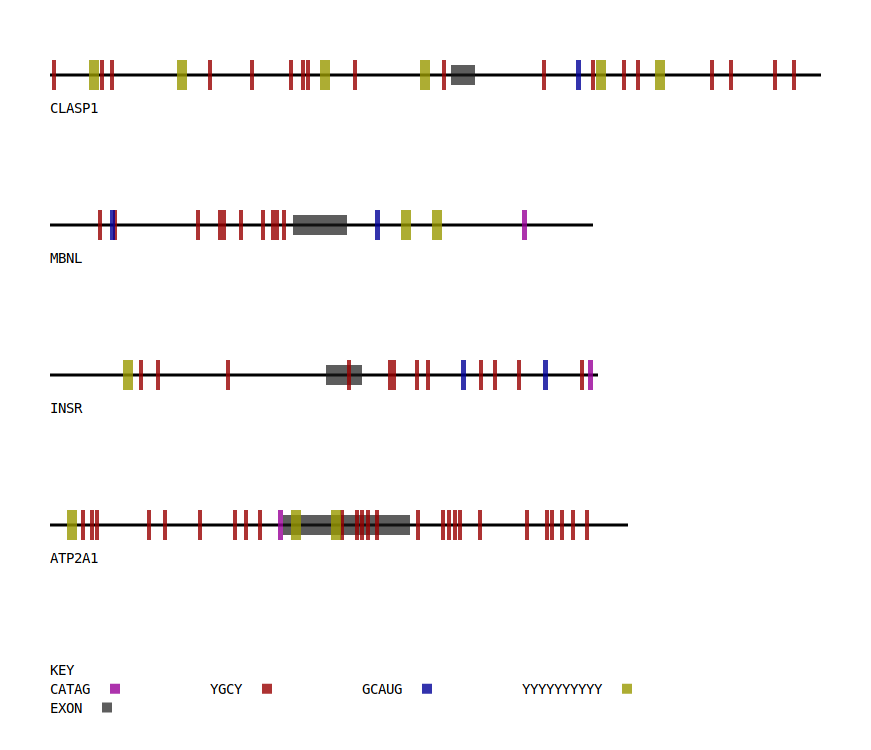
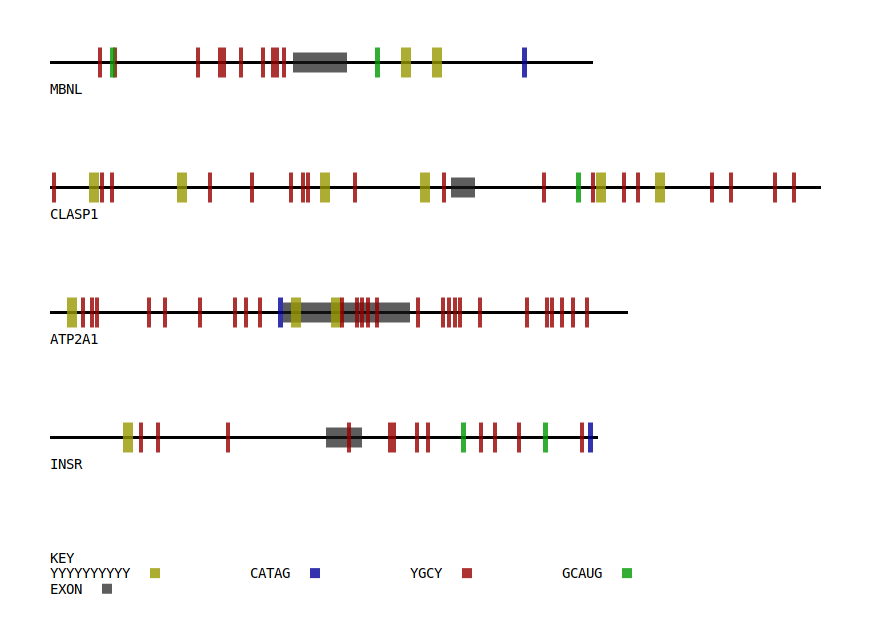
adjusted colors

diff --git a/motif-mark-oop.py b/motif-mark-oop.py
@@ -13,8 +13,8 @@ degenerate_bases: dict = {'A': 'A', 'T': 'TU', 'G': 'G', 'C': 'C', 'U': 'TU',
                           'K': 'GT', 'M': 'AC', 'B': 'CGT', 'D': 'AGT',
                           'H': 'ACT', 'V': 'ACG', 'N': 'ACGT'}
 
-color_codes: list = [(0, 0, 0.6, 0.8), (0.6, 0, 0, 0.8), (0, 0, 0.6, 0.8), 
-                     (0.6, 0, 0.6, 0.8), (0.6, 0.6, 0, 0.8)]
+color_codes: list = [(0.6, 0, 0, 0.8), (0, 0.6, 0, 0.8), (0, 0, 0.6, 0.8), 
+                     (0.6, 0.6, 0, 0.8), (0.6, 0, 0.6, 0.8)]
 
 class Motif:
     def __init__(self, motif_seq: str, motif_color: tuple):
@@ -152,8 +152,8 @@ def main():
     motif_count: int = 0
     with open(motif_filepath, 'r') as motif_file:
         for line in motif_file:
-            motif_count += 1
             motif_set.add(Motif(line.strip(), color_codes[motif_count]))
+            motif_count += 1
 
     # Search each Motif object in each Gene object
     for motif in motif_set:
@@ -162,7 +162,7 @@ def main():
             gene.find_motif(motif)
 
     # Create figure displaying motif positions on genes
-    HEIGHT_PER_GENE: int = 150
+    HEIGHT_PER_GENE: int = 125
     LEFT_MARGIN: int = 50
     HEIGHT: int = (len(gene_set)+1)*HEIGHT_PER_GENE
     WIDTH: int = longest_gene + 100
